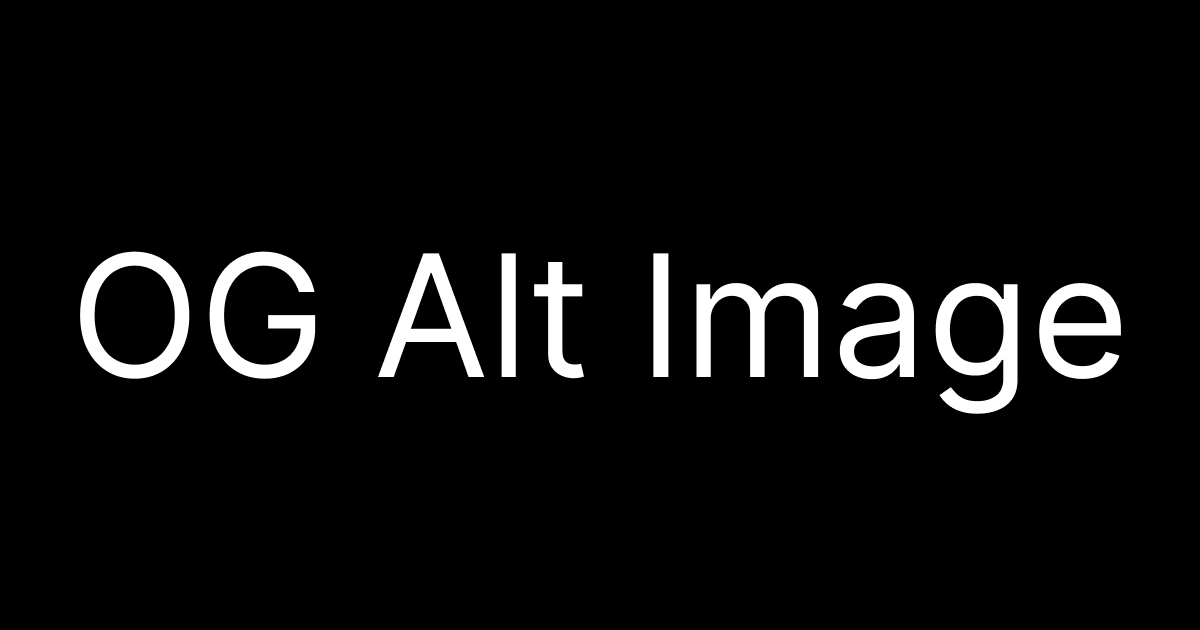
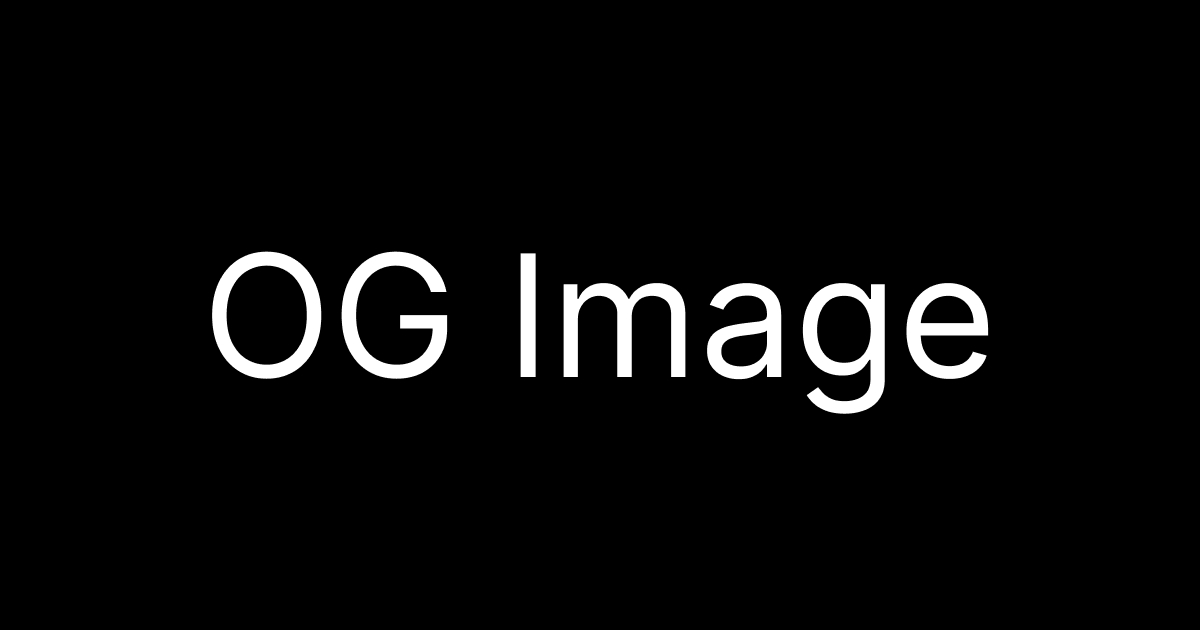
-

Changed region(s): [[0.185, 0.3921, 0.9558, 0.6635], [0.0617, 0.3921, 0.185, 0.6032], [0.185, 0.5429, 0.2158, 0.6032]]

diff --git a/index.html b/index.html
@@ -53,9 +53,9 @@
         <!-- Identical to og:image. -->
         <meta property="og:image" content="https://murtaza-amir.github.io/meta-inspector-demo/images/open-graph-image.jpg">
         <!-- og:image ka explicit URL version (optional, same purpose). -->
-        <!-- <meta property="og:image:url" content="https://murtaza-amir.github.io/meta-inspector-demo/images/open-graph-alt-image.jpg"> -->
+        <meta property="og:image:url" content="https://murtaza-amir.github.io/meta-inspector-demo/images/open-graph-alt-image.jpg">
         <!-- An alternate url to use if the webpage requires HTTPS. -->
-        <!-- <meta property="og:image:secure_url" content="https://murtaza-amir.github.io/meta-inspector-demo/images/open-graph-image.jpg" /> -->
+        <meta property="og:image:secure_url" content="https://murtaza-amir.github.io/meta-inspector-demo/images/open-graph-image.jpg" />
         <!-- Image ka MIME type batata hai (e.g. image/jpeg, image/png) -->
         <meta property="og:image:type" content="image/jpeg">
         <meta property="og:image:width" content="1200">
